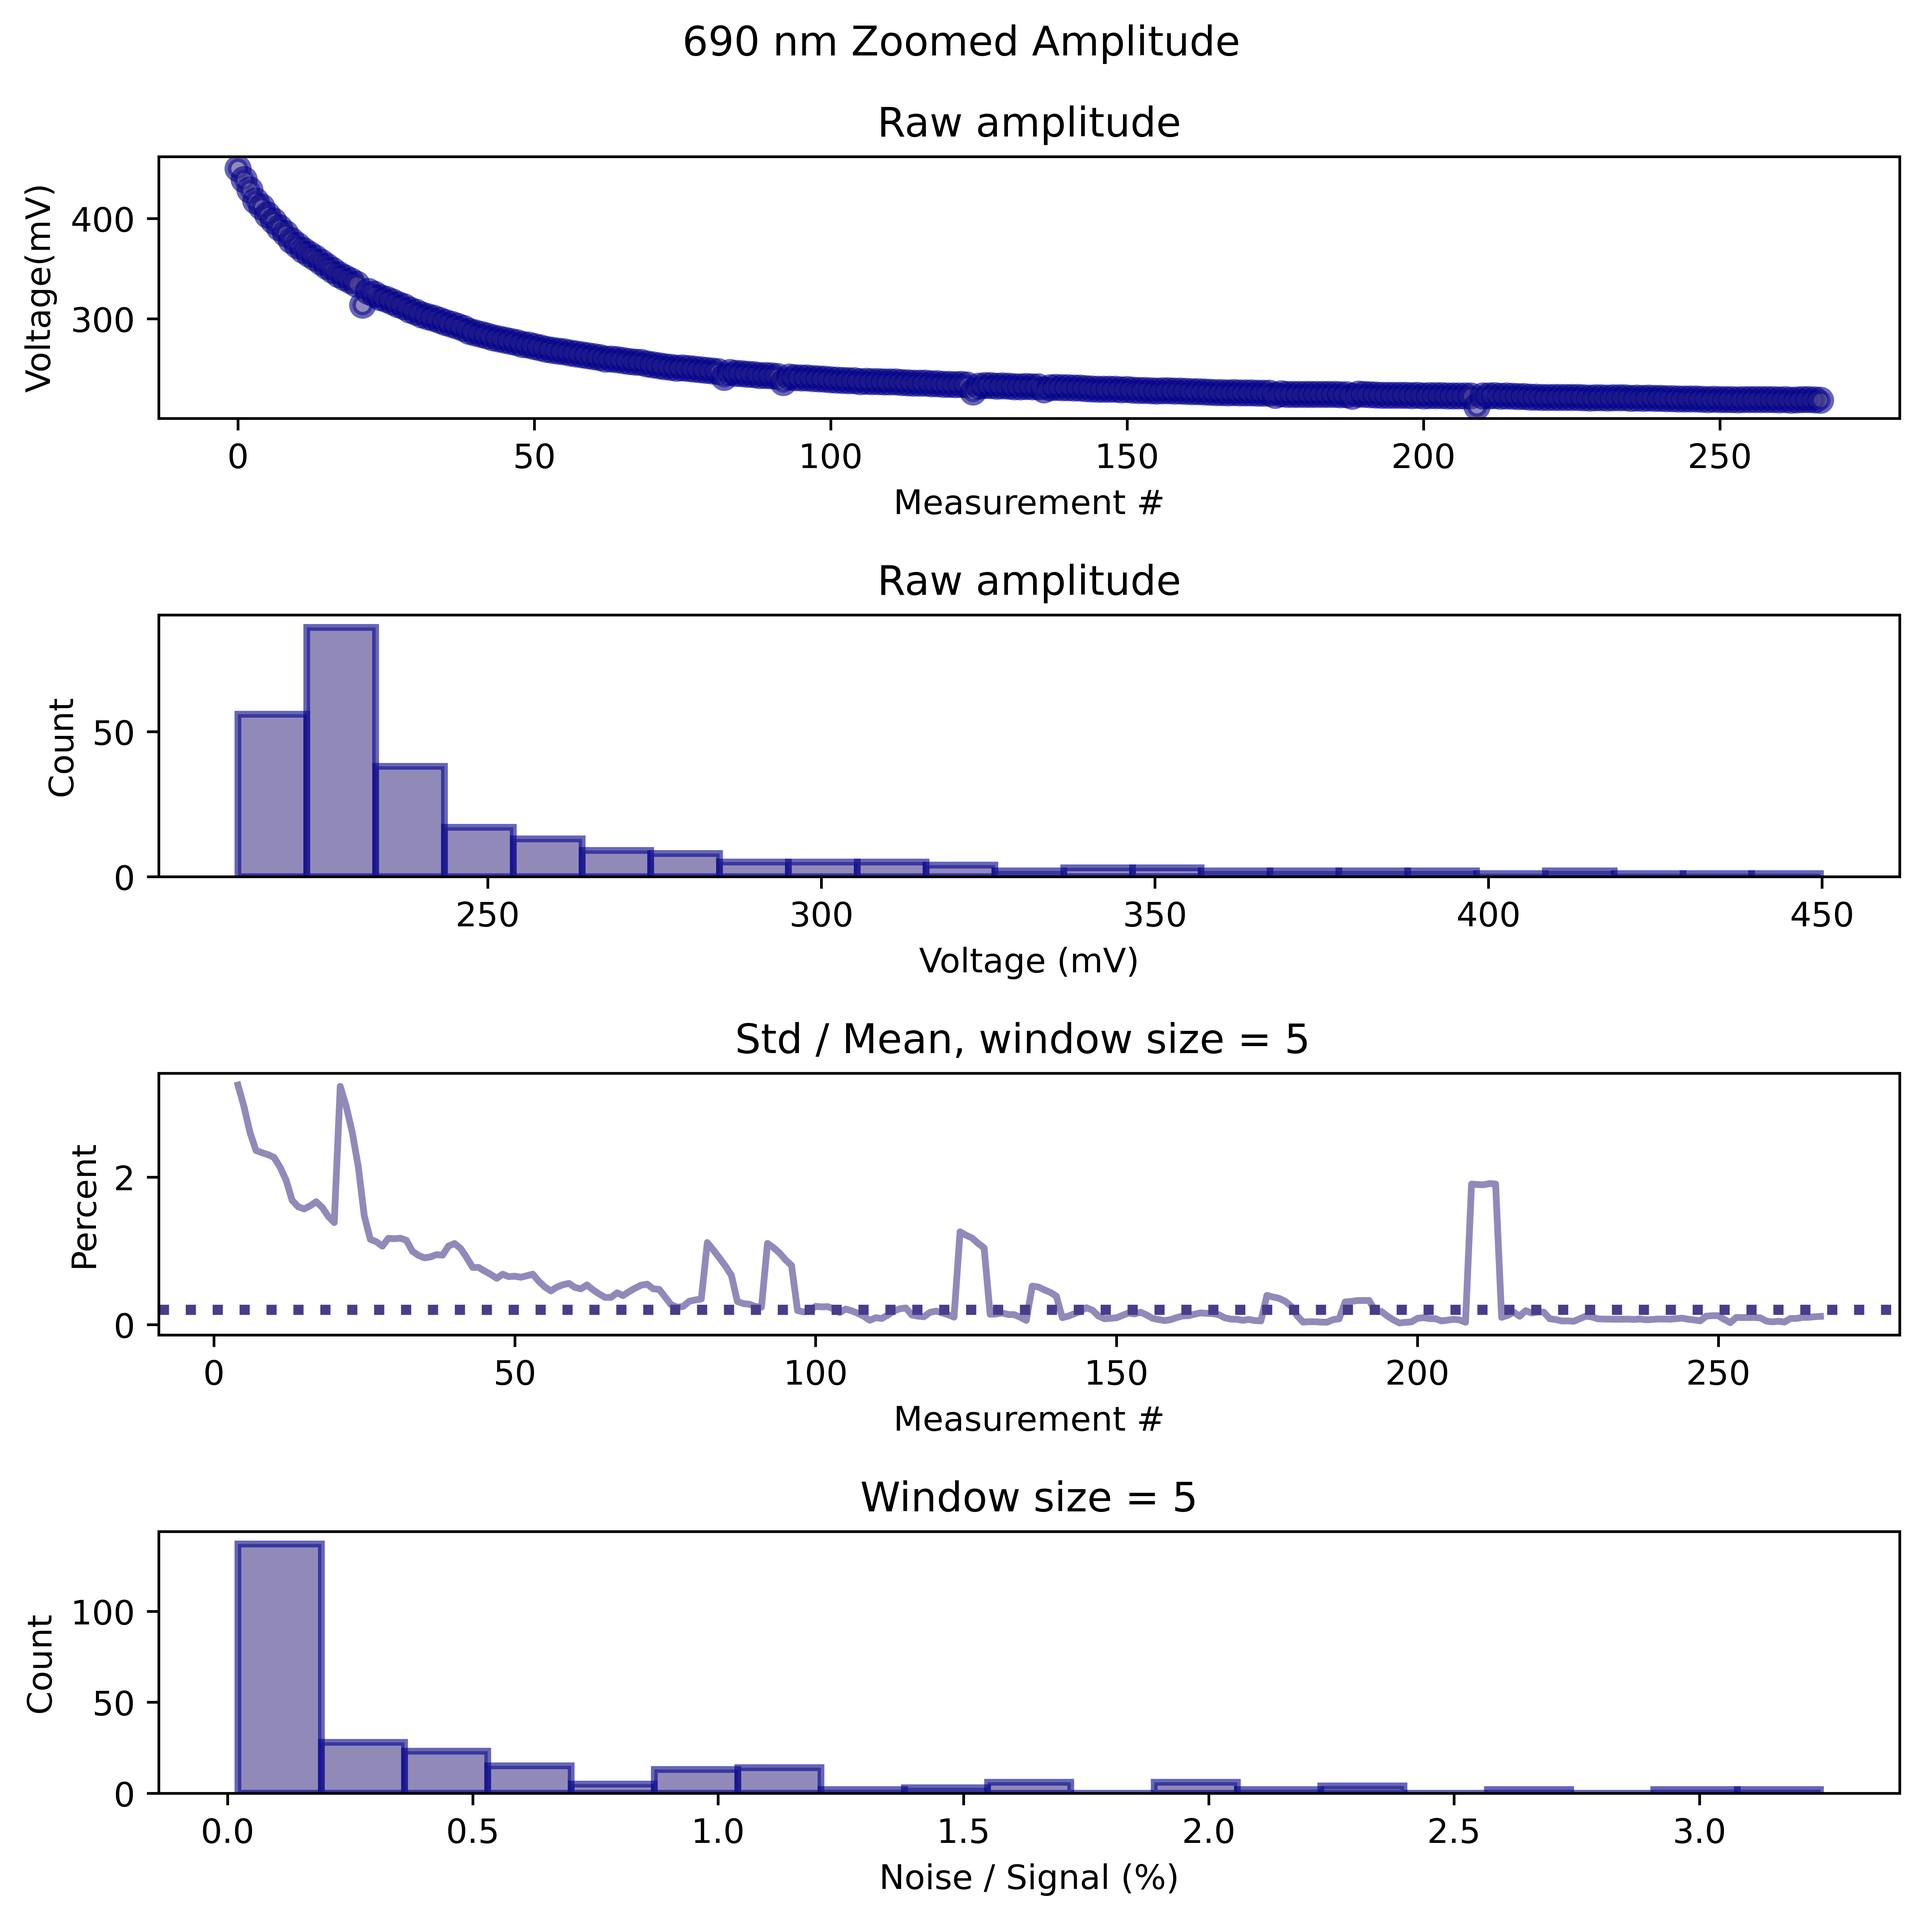
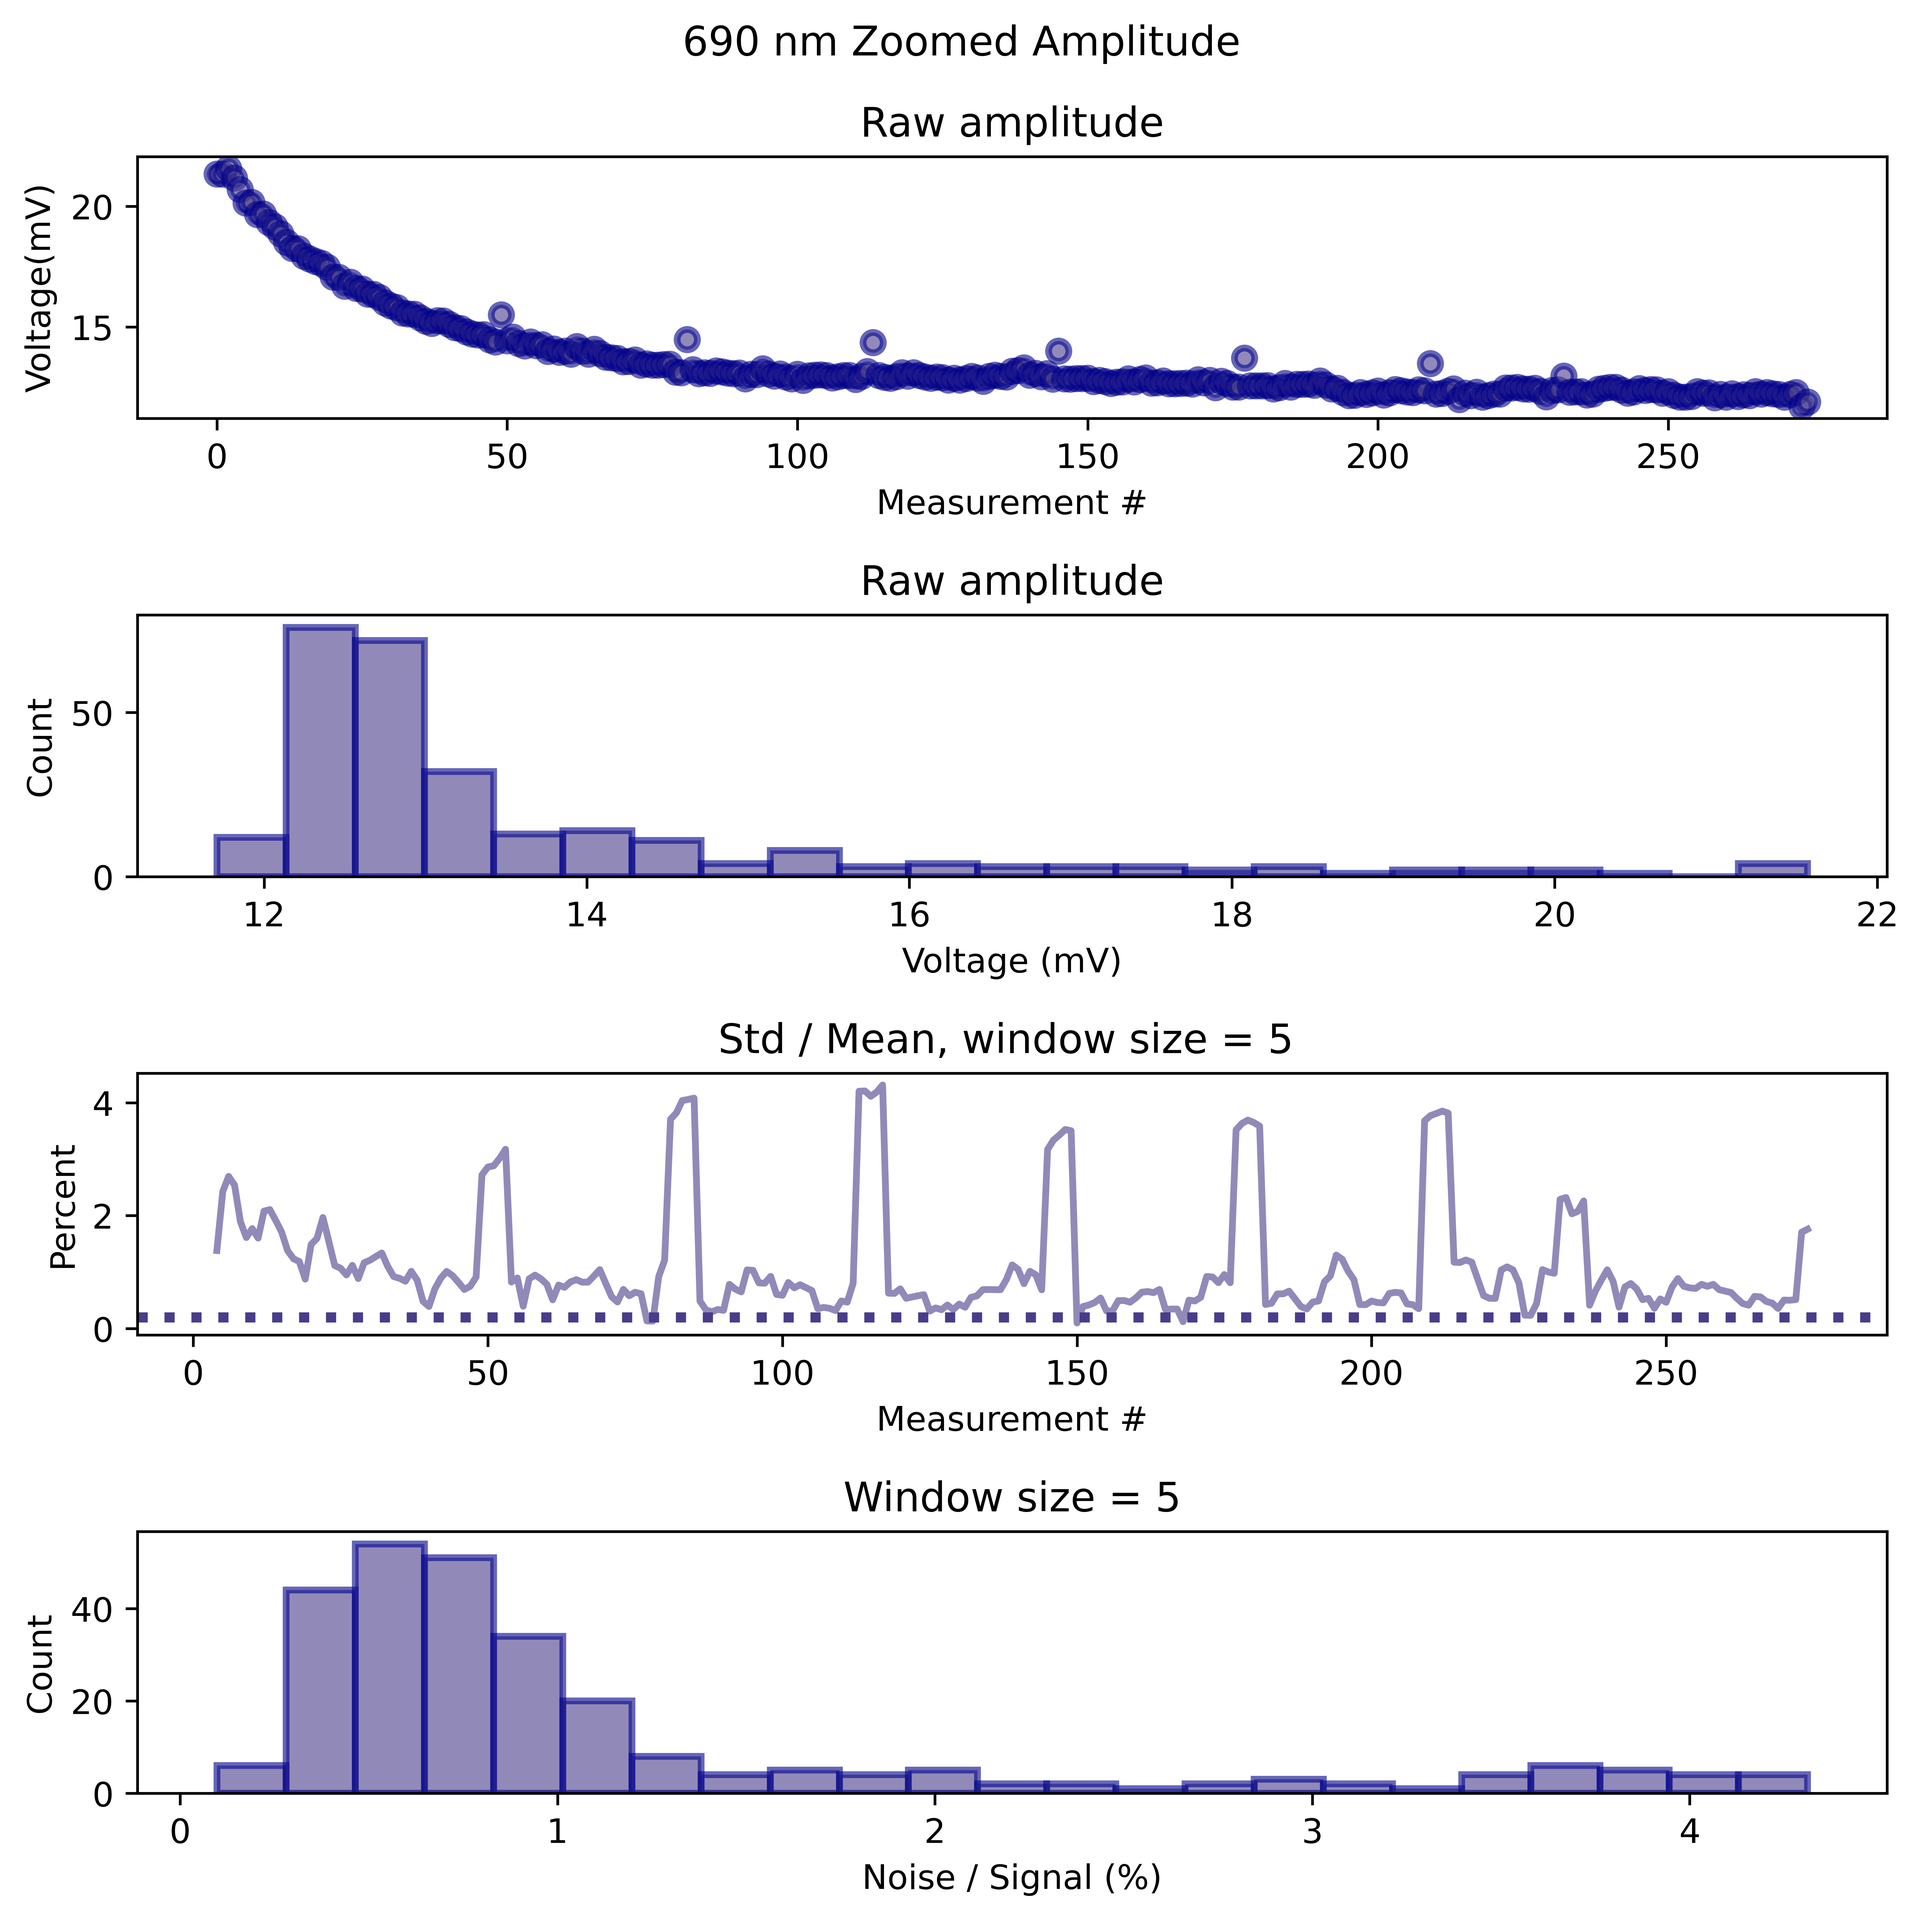
Converted the csv read code into functions for better re-usability.

diff --git a/LongMeasurementStabilityPlots.py b/LongMeasurementStabilityPlots.py
@@ -7,8 +7,9 @@ import csv
 from pathlib import Path as Path
 
 
-def voltage2phase(voltage, p):
-    p[-1] = p[-1]-voltage
+def voltage2phase(phase_voltage, p):
+    # print(phase_voltage)
+    p[-1] = p[-1] - phase_voltage
     roots = np.roots(p)
     for root in roots:
         if (np.isreal(root)) and (root.real > 0) and (root.real < 180):
@@ -131,6 +132,25 @@ def plot_phase(phase, wavelength, windowed=True, window_size=5):
     fig.savefig(Path.joinpath(saveLoc, Path('{} nm Phase'.format(wavelength))), bbox_inches='tight', dpi=800)
 
 
+def read_amplitudes_from_csv(save_location, demodulator_coefficients):
+    amplitudes = np.loadtxt(Path.joinpath(save_location, Path('amplitude.csv')),
+                            skiprows=1, delimiter=',')
+    amplitudes = amplitudes / demodulator_coefficients['Amplitude Slope']
+    return amplitudes
+
+
+def read_phases_from_csv(save_location, amplitudes, demodulator_coefficients):
+    phases = np.loadtxt(Path.joinpath(save_location, Path('phase.csv')),
+                        skiprows=1, delimiter=',')
+    for i, (amplitude, phase) in enumerate(zip(amplitudes, phases)):
+        for j, (a, p) in enumerate(zip(amplitude, phase)):
+            phases[i][j] = voltage2phase(p, a * demodulator_coefficients['Phase Coefficients'])
+    return phases
+
+
+demodulator_coefficients = {'Amplitude Slope': 0.2063,
+                            'Phase Coefficients': np.array([1.6e-7, -4.3e-5, 2.6e-4, 0.2085])
+                            }
 saveLoc = Path.joinpath(Path('2022-04-26'), Path('TEST-FOUR-LEDs-APD1'), Path('1'))
 
 amp = Path.joinpath(saveLoc, Path('amplitude.csv'))
@@ -202,75 +222,18 @@ phaseDegrees8 = np.delete(phaseDegrees8, mask)
 
 windowSize = 5
 
-plot_amplitude_nsr(amp3, 690, window_size=windowSize)
-plot_phase(phaseDegrees3, 690, window_size=windowSize)
-plot_amplitude_nsr(amp7, 820, window_size=windowSize)
-plot_phase(phaseDegrees7, 820, window_size=windowSize)
 
-# #   Amplitude Ratio
-# ampRatio_movingMean = rolling_apply(np.mean, amp4 / amp8, windowSize)
-# ampRatio_movingStd = rolling_apply(np.std, amp4 / amp8, windowSize)
-#
-# fig, axes = plt.subplots(3, figsize=(8, 8), num='Amplitude Ratio')
-# fig.suptitle('Amplitude Ratio')
-#
-# axes[0].scatter(np.arange(amp8.size), amp4 / amp8, color='seagreen', alpha=0.6,
-#                 linewidth=2, edgecolors='darkgreen', label='830nm')
-# axes[0].set_xlabel('Measurement #')
-# axes[0].set_ylabel('a.u.')
-# axes[0].set_title('Raw amplitude ratio')
-#
-# axes[1].plot(100 * ampRatio_movingStd / ampRatio_movingMean, color='seagreen', alpha=0.6,
-#              linewidth=2, label='830nm')
-# axes[1].axhline(0.2, color='seagreen', alpha=1.0,
-#                 linewidth=3, linestyle=':')
-# axes[1].set_xlabel('Measurement #')
-# axes[1].set_ylabel('Percent')
-# axes[1].set_title('Std / Mean, window size = {} '.format(windowSize))
-#
-# axes[2].hist(amp4 / amp8, bins='fd', color='seagreen', alpha=0.6,
-#              linewidth=2, edgecolor='darkgreen', label='830 nm')
-# axes[2].set_xlabel('a.u.')
-# axes[2].set_ylabel('Count')
-# axes[2].set_title('Histogram')
-#
-# fig.tight_layout()
-# fig.savefig(Path.joinpath(saveLoc, Path('Amplitude Ratio')), bbox_inches='tight', dpi=800)
-#
-#
-# # Phase Differences
-# phaDiff_movingMean = rolling_apply(np.mean, phaseDegrees4 - phaseDegrees8, windowSize)
-# phaDiff_movingStd = rolling_apply(np.std, phaseDegrees4 - phaseDegrees8, windowSize)
-#
-# fig, axes = plt.subplots(3, figsize=(8, 8), num='Phase Difference')
-# fig.suptitle('Phase Difference')
-#
-# axes[0].scatter(np.arange(amp8.size), phaseDegrees4 - phaseDegrees8, color='seagreen', alpha=0.6,
-#                 linewidth=2, edgecolors='darkgreen', label='830nm')
-# axes[0].set_xlabel('Measurement #')
-# axes[0].set_ylabel('Degrees (°)')
-# axes[0].set_title('Raw Phase Difference')
-#
-# axes[1].plot(phaDiff_movingStd, color='seagreen', alpha=0.6,
-#              linewidth=2, label='830nm')
-# axes[1].axhline(0.2, color='seagreen', alpha=1.0,
-#                 linewidth=3, linestyle=':')
-# axes[1].set_xlabel('Measurement #')
-# axes[1].set_ylabel('Degrees (°)')
-# axes[1].set_title('Std, window size = {} '.format(windowSize))
-#
-# axes[2].hist(phaseDegrees4 - phaseDegrees8, bins='fd', color='seagreen', alpha=0.6,
-#              linewidth=2, edgecolor='darkgreen', label='830 nm')
-# axes[2].set_xlabel('Degrees (°)')
-# axes[2].set_ylabel('Count')
-# axes[2].set_title('Histogram')
-#
-# fig.tight_layout()
-# fig.savefig(Path.joinpath(saveLoc, Path('Phase Difference')), bbox_inches='tight', dpi=800)
+amplitudes = read_amplitudes_from_csv(saveLoc,
+                                      demodulator_coefficients=demodulator_coefficients)
+phases = read_phases_from_csv(saveLoc, amplitudes=amplitudes,
+                     demodulator_coefficients=demodulator_coefficients)
 
+plot_amplitude_nsr(amplitudes.T[3], 690, window_size=windowSize)
+plot_phase(phases.T[3], 690, window_size=windowSize)
+plot_amplitude_nsr(amplitudes.T[7], 820, window_size=windowSize)
+plot_phase(phases.T[7], 820, window_size=windowSize)
 
 plt.show()
-
 # corrcoeffAmp = np.corrcoef(amp4, amp8)
 # print(corrcoeffAmp)
 # print()
